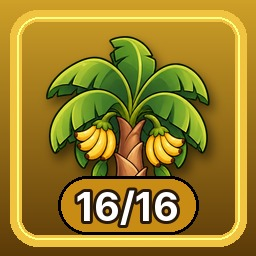
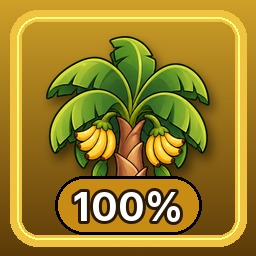
docs(C1): 장식 개수(16종)를 문구에 박지 않는다 - 장식은 업데이트로 늘어난다
- 스토어 설명(한/영), 처음 안내 3장째에서 개수 제거
- 도전과제 "도감 완성": 설명 "커서 장식을 모두 모은다", 아이콘 배지 16/16 -> 100% (다시 뽑음).
  파트너 사이트 문구·아이콘은 손으로 다시 올려야 한다
- 코드 주석·설계 문서: "지금 16종, 개수는 고정이 아니다". 계산은 원래 카탈로그 배열에서 센다

Changed region(s): [[0.1875, 0.6875, 0.8125, 0.9375]]

diff --git a/game/GameRoot.cs b/game/GameRoot.cs
@@ -875,7 +875,7 @@ public partial class GameRoot : Node2D, IInteractiveArea, IPlatformConsumer
 
     /// <summary>
     /// [디버그, Shift+B] 전 상품 지급 + 바나나. C1 스크린샷처럼 장식 조합을
-    /// 이것저것 갈아끼워 봐야 할 때 쓴다. 정상 플레이로 16종을 다 모으려면
+    /// 이것저것 갈아끼워 봐야 할 때 쓴다. 정상 플레이로 지금의 16종을 다 모으려면
     /// 6,600 바나나(기본 획득량 기준 약 300시간)가 든다.
     ///
     /// <b>릴리스 빌드에는 이 경로가 없다</b> (<see cref="OS.IsDebugBuild"/>).
@@ -1060,7 +1060,7 @@ public partial class GameRoot : Node2D, IInteractiveArea, IPlatformConsumer
     /// <see cref="CheckMilestones"/> 와 같은 경계다. 스팀이 안 붙어 있으면 호출이
     /// 조용히 버려지므로 분기하지 않는다.
     ///
-    /// 진행도는 구매마다 한 번씩만 움직인다(16종이라 한 칸이 6.25%다). 그래서
+    /// 진행도는 구매마다 한 번씩만 움직인다(지금 16종이라 한 칸이 6.25%다). 그래서
     /// 마일스톤처럼 구간을 따로 끊지 않고 그대로 올린다.
     /// </summary>
     private void CheckCollection()

diff --git a/game/ui/OnboardingWindow.cs b/game/ui/OnboardingWindow.cs
@@ -44,7 +44,7 @@ public partial class OnboardingWindow : CanvasLayer
         }, () => GD.Load<Texture2D>("res://assets/entities/tree_full.png")),
         new("꾸미고, 같이 치기", new[]
         {
-            "[상점] 바나나로 커서 장식을 삽니다. 매달림 · 잔상 · 바닥 세 칸, 16종. 나무를 키우는 강화도 여기 있습니다.",
+            "[상점] 바나나로 커서 장식을 삽니다. 매달림 · 잔상 · 바닥 세 칸에 골라 끼웁니다. 나무를 키우는 강화도 여기 있습니다.",
             "[멀티] 스팀 친구와 로비에 모이면 친구의 원숭이와 나무가 바탕화면에 작은 창으로 뜹니다.",
             "[옵션] 크기 · 투명도 · 숨기기 · Windows 시작 시 실행. 트레이 아이콘에서도 열립니다.",
             "원숭이와 나무를 끌면 창이 옮겨집니다. 이 안내는 [?] 로 다시 볼 수 있습니다.",

diff --git a/game/shop/Inventory.cs b/game/shop/Inventory.cs
@@ -91,7 +91,7 @@ public sealed class Inventory
     /// <summary>도감이 슬롯별 진행도를 그릴 때 쓴다 (B7).</summary>
     public int OwnedInSlot(CursorSlot slot) => ShopCatalog.ForSlot(slot).Count(i => Owns(i.Id));
 
-    /// <summary>16종을 전부 모았는가 (§3-3, <see cref="AchievementIds.Collection100"/>).</summary>
+    /// <summary>카탈로그의 장식을 전부 모았는가 - 장식이 늘면 조건도 같이 는다 (§3-3, <see cref="AchievementIds.Collection100"/>).</summary>
     public bool IsComplete => ShopCatalog.All.All(i => Owns(i.Id));
 
     public string EquippedIn(CursorSlot slot) => slot switch

diff --git a/game/shop/ShopCatalog.cs b/game/shop/ShopCatalog.cs
@@ -42,7 +42,7 @@ public static class ShopCatalog
     }
 
     /// <summary>
-    /// 16종. 슬롯별 물량은 §3-1 표대로 6 / 6 / 4 다.
+    /// 지금 16종(슬롯별 6 / 6 / 4). **개수는 고정이 아니다** - 업데이트로 늘어난다. 개수를 쓰는 곳은 이 배열에서 센다.
     ///
     /// 티어는 슬롯을 가로질러 고르게 폈다 - 한 슬롯을 싸게 몰아 두면 그 슬롯만
     /// 먼저 채우고 나머지는 한참 빈 채로 남는다. 티어마다 세 슬롯이 하나씩 있어야

diff --git a/platform/OverlayShell.StoreShots.cs b/platform/OverlayShell.StoreShots.cs
@@ -30,7 +30,7 @@ public partial class OverlayShell
     /// </summary>
     private const float StoreShotScale = 1.5f;
 
-    /// <summary>찍을 때 보유한 것으로 둘 장식 (16종 중 11종 - 도감이 "거의 다" 로 보이게).</summary>
+    /// <summary>찍을 때 보유한 것으로 둘 장식 (지금 16종 중 11종 - 도감이 "거의 다" 로 보이게).</summary>
     private static readonly string[] StoreShotOwned =
     {
         "monkey_01", "monkey_02", "monkey_03", "monkey_04", "monkey_05",

diff --git a/tools/make-achievement-icons.py b/tools/make-achievement-icons.py
@@ -145,7 +145,7 @@ def collection():
     c = gradient((206, 160, 40), (92, 58, 8))
     paste_with_shadow(c, fit(asset("entities", "tree_full.png"), 196), (SIZE / 2, SIZE / 2 + 6))
     frame(c, GOLD, width=12)
-    badge(c, "16/16", (200, 140, 20, 235))
+    badge(c, "100%", (200, 140, 20, 235))   # 개수(16/16)를 쓰지 않는다 - 장식은 업데이트로 늘어난다
     return c
 
 

diff --git a/docs/C1-STORE.md b/docs/C1-STORE.md
@@ -167,8 +167,8 @@ C:\Tools\Godot_v4.7.2-stable_mono_win64\Godot_v4.7.2-stable_mono_win64_console.e
 송이는 열 번 맞으면 떨어집니다. 자리를 비워도 나무는 자랍니다 — 돌아와서 수확하세요.
 
 **커서를 꾸미세요**
-바나나로 커서 장식을 삽니다. 커서에 매달리는 원숭이, 따라오는 잔상, 커서 밑의 바닥 장식 — 세 칸에
-16종. 커서 자체는 윈도우 기본 커서 그대로이고, 장식이 곁에 붙어 다닙니다. 모은 장식은 스팀 인벤토리에
+바나나로 커서 장식을 삽니다. 커서에 매달리는 원숭이, 따라오는 잔상, 커서 밑의 바닥 장식 — 세 칸을
+골라 끼우고, 장식은 업데이트로 계속 늘어납니다. 커서 자체는 윈도우 기본 커서 그대로이고, 장식이 곁에 붙어 다닙니다. 모은 장식은 스팀 인벤토리에
 들어갑니다.
 
 **나무를 키우세요**
@@ -205,7 +205,7 @@ bunch drops after ten hits. The tree keeps growing while you're away — come ba
 
 **Decorate your cursor**
 Spend bananas on cursor decorations: a monkey hanging from your cursor, a sparkling trail, a glow underneath —
-16 decorations across three slots. Your actual cursor stays the standard Windows cursor; the decorations
+mix and match across three slots, with more decorations arriving in updates. Your actual cursor stays the standard Windows cursor; the decorations
 tag along. Decorations you collect go into your Steam inventory.
 
 **Grow your tree**
@@ -243,7 +243,7 @@ Drag them anywhere. See who punched the most on the lobby leaderboard.
 | 문장 | 근거 / 확인 |
 |---|---|
 | 열 번 맞으면 떨어진다 | `17ed534` 10타 수확 |
-| 16종, 세 칸 | B9 — 매달림 6 · 잔상 6 · 바닥 4 |
+| 세 칸, 업데이트로 늘어난다 | 지금 매달림 6 · 잔상 6 · 바닥 4 (B9). **개수를 문구에 박지 않는다** — 장식은 계속 늘어난다. 칸 이름은 커서 장식 재구성(원숭이 · 바나나 · 장식) 때 다시 고친다 |
 | 스팀 인벤토리에 들어간다 | ECONOMY-SERVER — 장식은 스팀 인벤토리 아이템 |
 | 황금 ×5, 세 축 이름 | B13-UPGRADES — **B14 밸런스에서 이름·배율이 바뀌면 같이 고친다** |
 | 친구 창 끌어서 두기, 로비 랭킹 | B10 · B12. **2계정 전체 시나리오 확인 전** — 공개 전에 한 번은 돌려 볼 것 |

diff --git a/docs/A15-ACHIEVEMENTS.md b/docs/A15-ACHIEVEMENTS.md
@@ -29,7 +29,7 @@
 | `ACH_SLOT_HANG` | Hanging Around / Collect every hanging decoration. | 매달림 수집가 / 매달림 장식을 모두 모은다. | 매달림 6종 (기본 지급품 포함) |
 | `ACH_SLOT_TRAIL` | Trailblazer / Collect every trail decoration. | 잔상 수집가 / 잔상 장식을 모두 모은다. | 잔상 6종 |
 | `ACH_SLOT_BASE` | Solid Ground / Collect every base decoration. | 바닥 수집가 / 바닥 장식을 모두 모은다. | 바닥 4종 |
-| `ACH_COLLECTION_100` | Complete Collection / Collect all 16 cursor decorations. | 도감 완성 / 커서 장식 16종을 모두 모은다. | 도감 16/16 (§3-3) |
+| `ACH_COLLECTION_100` | Complete Collection / Collect every cursor decoration. | 도감 완성 / 커서 장식을 모두 모은다. | 도감 100% (§3-3) — 장식이 늘면 조건도 같이 는다. 이미 딴 사람은 그대로(스팀은 해금을 되돌리지 않는다) |
 | `ACH_ROOM_FIRST_JOIN` | Better Together / Create or join a room with friends. | 같이 치자 / 친구와 룸을 처음 만들거나 들어간다. | 실물 스팀 로비(`SteamNetSession`, A9)에 들어감 |
 
 - 누적 타수의 "Lv." 은 `KeystrokeLevel` 곡선 기준이다. 체감 기간(첫날 / 하루 이틀 / 1~2주 /
@@ -192,7 +192,7 @@ Stat)를 연결해야 나온다.
 | 누적 타수 4개 | 펀치하는 원숭이 + 숫자 배지 | 테두리가 단계를 가른다 — 1K 동 · 10K 은 · 100K 금 · 1M 다이아 |
 | 첫 구매 | 노랑 원숭이(첫 티어 장식) + 바나나 | 초록 |
 | 매달림 / 잔상 / 바닥 수집가 | 각 슬롯의 최고 티어 장식 | 보라 / 청록 / 갈색 |
-| 도감 완성 | 바나나가 가득한 나무 + `16/16` | 금, 굵은 테두리 |
+| 도감 완성 | 바나나가 가득한 나무 + `100%` (2026-09-26 전엔 `16/16` — 장식이 늘어나므로 개수를 안 쓴다) | 금, 굵은 테두리 |
 | 같이 치자 | 원숭이 둘 | 파랑 |
 
 미달성은 흑백 + 밝기 55% + 대비 80% — 모양은 남겨서 무엇을 해야 하는지 짐작하게 한다.

diff --git a/docs/ECONOMY-SERVER.md b/docs/ECONOMY-SERVER.md
@@ -67,13 +67,13 @@
 ## 2. 범위
 
 **이번 피벗에 들어가는 것**: 바나나 잔액, 나무 슬롯 성장 상태, 강화 3축 레벨,
-커서 장식 16종의 소유권.
+커서 장식(1차 16종, 업데이트로 늘어난다)의 소유권.
 
 **안 들어가는 것**: 관전형 멀티의 상태 브로드캐스트(`PlayerState`) — 그대로
 로컬 파생값을 실어 보낸다. 누적 타수(§6)도 재화가 아니라 기록이므로 서버
 원장에 안 들어간다 — 조작돼도 실제 금전과 연결되지 않는다.
 
-**"아이템"의 정의를 커서 장식 16종으로 좁힌다.** 강화는 스팀 인벤토리 아이템이
+**"아이템"의 정의를 커서 장식으로 좁힌다.** 강화는 스팀 인벤토리 아이템이
 **아니다** — 파워/주기/슬롯 레벨을 마켓에서 거래 가능한 아이템으로 만들면
 사실상 페이투윈 아이템을 되파는 구조가 되고, 이건 원래 기획에도 없던 것이다.
 강화 구매는 §5 그대로 "레벨을 올리는 것"이고, 다만 그 레벨의 진실이 로컬에서
